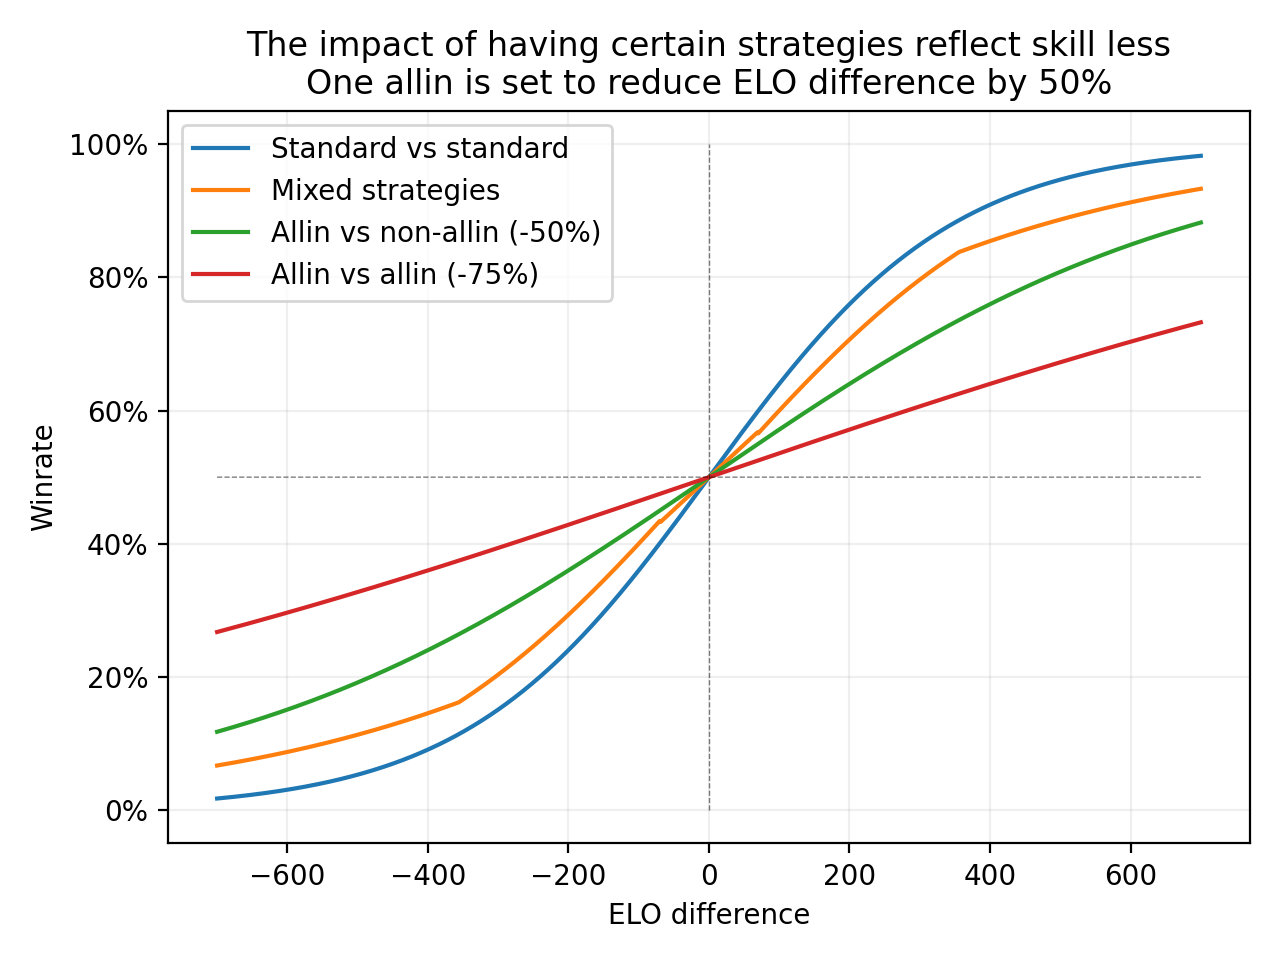
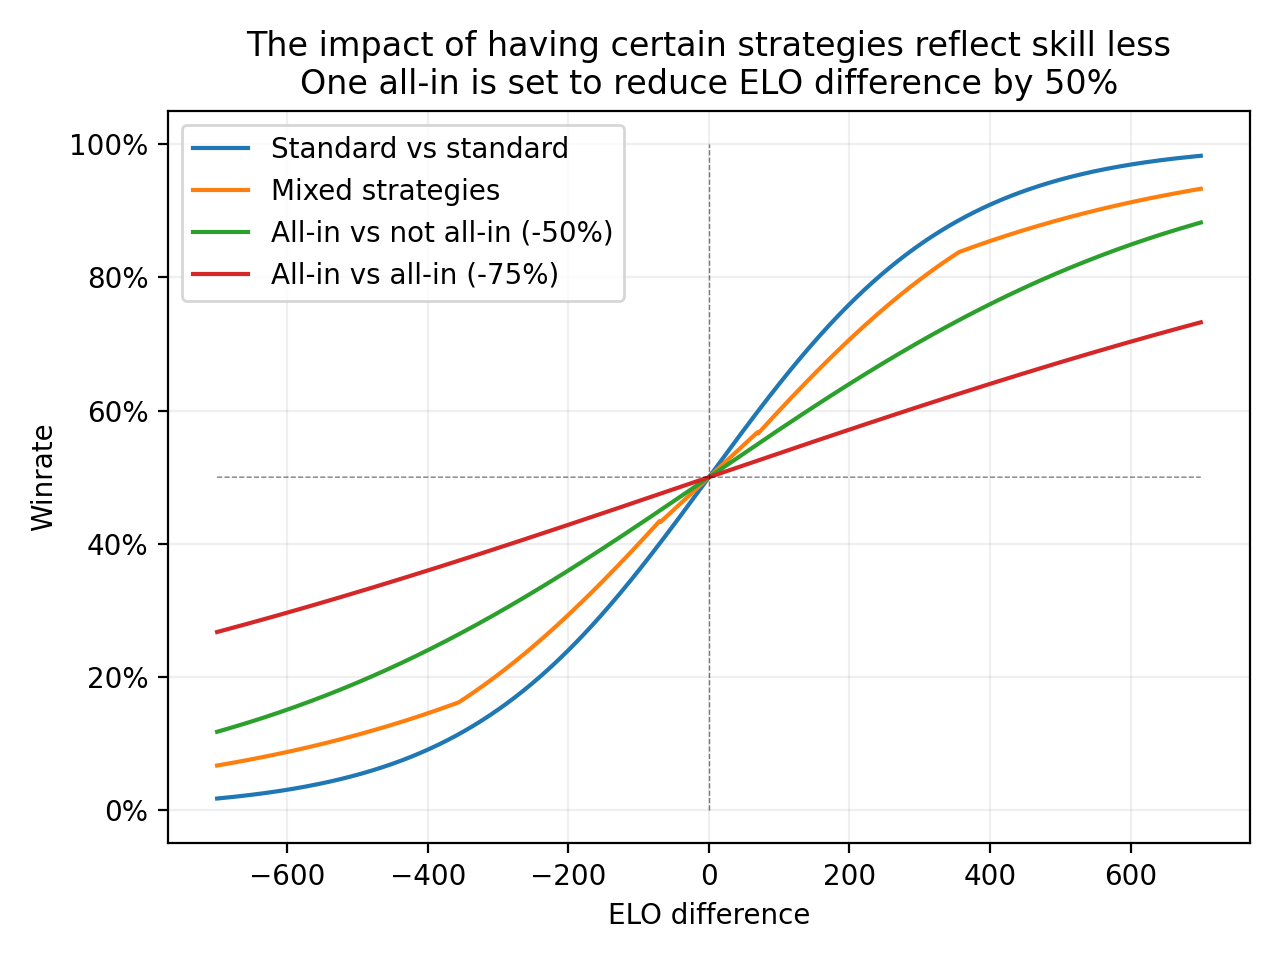
...

Changed region(s): [[0.2188, 0.0625, 0.875, 0.125], [0.2188, 0.125, 0.5, 0.3125]]

diff --git a/src/visualize.py b/src/visualize.py
@@ -27,8 +27,8 @@ def plot_allin_coef_impact(data):
     fig, ax = plt.subplots(1, 1, dpi=200)
     ax.plot(x, winrate_without_strats, label="Standard vs standard")
     ax.plot(x, winrate, label="Mixed strategies")
-    ax.plot(x, one_allins, label=f"Allin vs non-allin (-{1-ALLIN_COEF:.0%})")
-    ax.plot(x, allins, label=f"Allin vs allin (-{1-ALLIN_COEF**2:.0%})")
+    ax.plot(x, one_allins, label=f"All-in vs not all-in (-{1-ALLIN_COEF:.0%})")
+    ax.plot(x, allins, label=f"All-in vs all-in (-{1-ALLIN_COEF**2:.0%})")
     ax.plot(x, 0.5 * np.ones(len(x)), 'k--', alpha=0.5, linewidth=0.5)
     ax.plot([0, 0], [0, 1], 'k--', alpha=0.5, linewidth=0.5)
     ax.yaxis.set_major_formatter(mtick.PercentFormatter(1.0))
@@ -36,7 +36,7 @@ def plot_allin_coef_impact(data):
     ax.set_ylabel("Winrate")
     ax.set_title(
         f"The impact of having certain strategies reflect skill less"
-        f"\nOne allin is set to reduce ELO difference by {1-ALLIN_COEF:.0%}")
+        f"\nOne all-in is set to reduce ELO difference by {1-ALLIN_COEF:.0%}")
     ax.grid(alpha=0.2)
     ax.legend()
     fig.tight_layout()
@@ -50,7 +50,7 @@ def plot_strategy_frequency(data):
     fig, ax = plt.subplots(2, 1, figsize=(7, 8), dpi=200)
 
     frequencies = [[], []]
-    labels = [e.name.capitalize() for e in ST]
+    labels = [e.name.capitalize().replace("Allin", "All-in") for e in ST]
     for i, _ in enumerate(ST):
         frequencies[0].append([data[diff].p1_dist[i] for diff in data])
         frequencies[1].append([data[diff].p2_dist[i] for diff in data])
@@ -62,7 +62,7 @@ def plot_strategy_frequency(data):
                         alpha=0.5,
                         edgecolor="k",
                         linewidth=0.5)
-        labels = [f"P2 {l}" for l in labels]
+        labels = [f"P2 {l}".replace("Allin", "All-in") for l in labels]
 
     # Plot P1 winrate
     p1winrate = [data[diff].p1_expected_payoff for diff in data]
